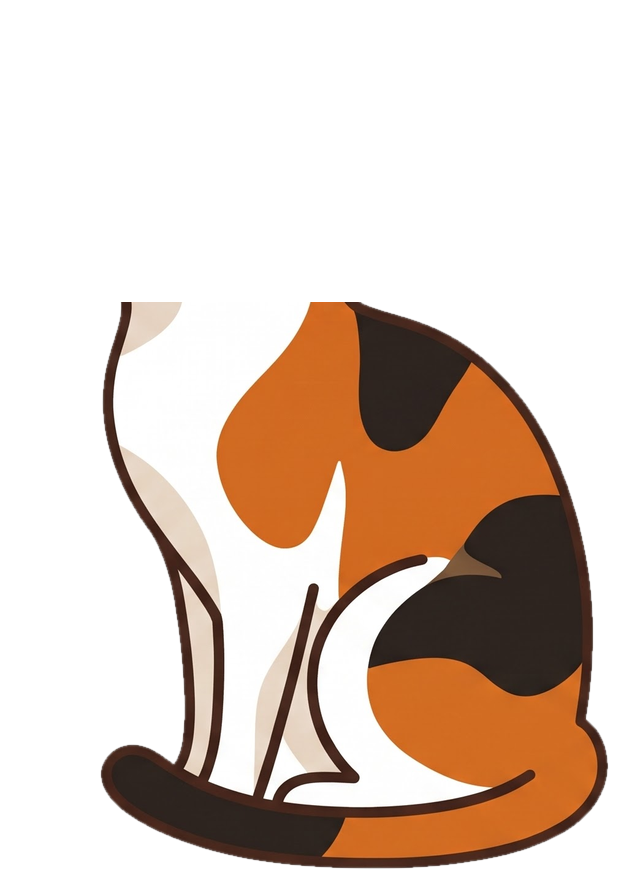
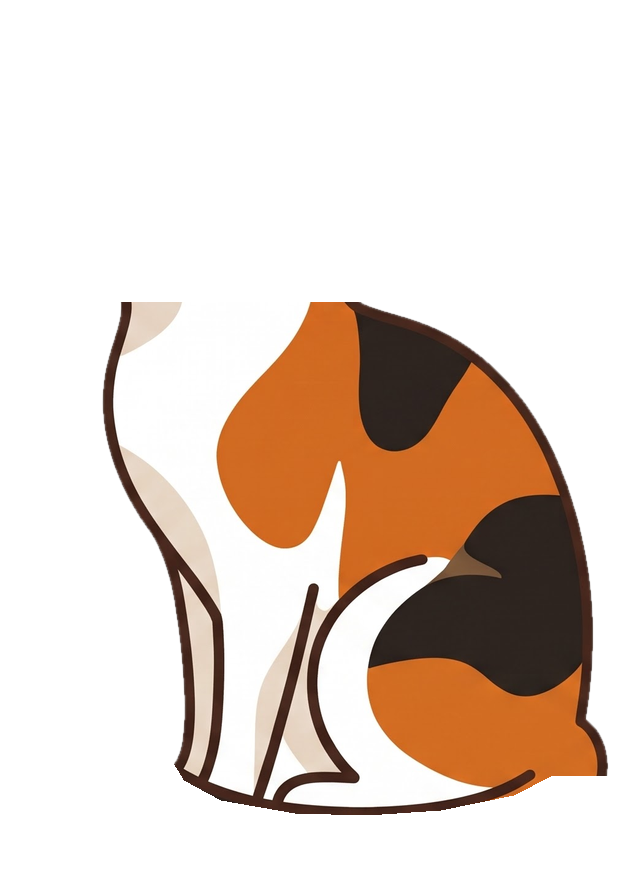
La queue du chat remue
Claude-Session: https://claude.ai/code/session_01BdK1ncpcoSpXg8LbHy2PCy

Changed region(s): [[0.1562, 0.8331, 0.9375, 1.0]]

diff --git a/app/app.js b/app/app.js
@@ -103,7 +103,7 @@ function thumb(c, poster) {
   return t;
 }
 /* Mascotte : corps + tête animée (inclinaison, clignement) */
-const mascot = cls => `<div class="cat ${cls}"><img class="cat-body" src="cat-body.png" alt=""><div class="cat-head"><img src="cat-head.png" alt=""><i class="lid n"></i><i class="lid f"></i></div></div>`;
+const mascot = cls => `<div class="cat ${cls}"><img class="cat-tail" src="cat-tail.png" alt=""><img class="cat-body" src="cat-body.png" alt=""><div class="cat-head"><img src="cat-head.png" alt=""><i class="lid n"></i><i class="lid f"></i></div></div>`;
 let cardN = 0;
 function card(c) {
   const b = el('div', 'card'); b.style.animationDelay = Math.min(cardN++ % 12, 11) * 40 + 'ms'; b.tabIndex = 0; b.setAttribute('role', 'button'); b.setAttribute('aria-label', c.name);

diff --git a/app/style.css b/app/style.css
@@ -202,3 +202,5 @@ dialog .row{display:flex;gap:8px;margin-top:20px;align-items:center;flex-wrap:wr
 @keyframes lid{0%,92%,100%{transform:translate(-50%,-50%) scaleY(0)}95%{transform:translate(-50%,-50%) scaleY(1)}}
 .cat.peek{position:absolute;aspect-ratio:640/875;width:clamp(110px,15vw,200px);height:auto}
 @media (max-width:760px){.peek.cat{width:84px}}
+.cat-tail{position:absolute;inset:0;transform-origin:87.4% 92.5%;animation:wag 2.2s ease-in-out infinite}
+@keyframes wag{0%,100%{transform:rotate(-1deg)}20%{transform:rotate(7deg)}40%{transform:rotate(0)}60%{transform:rotate(6deg)}80%{transform:rotate(0)}}
